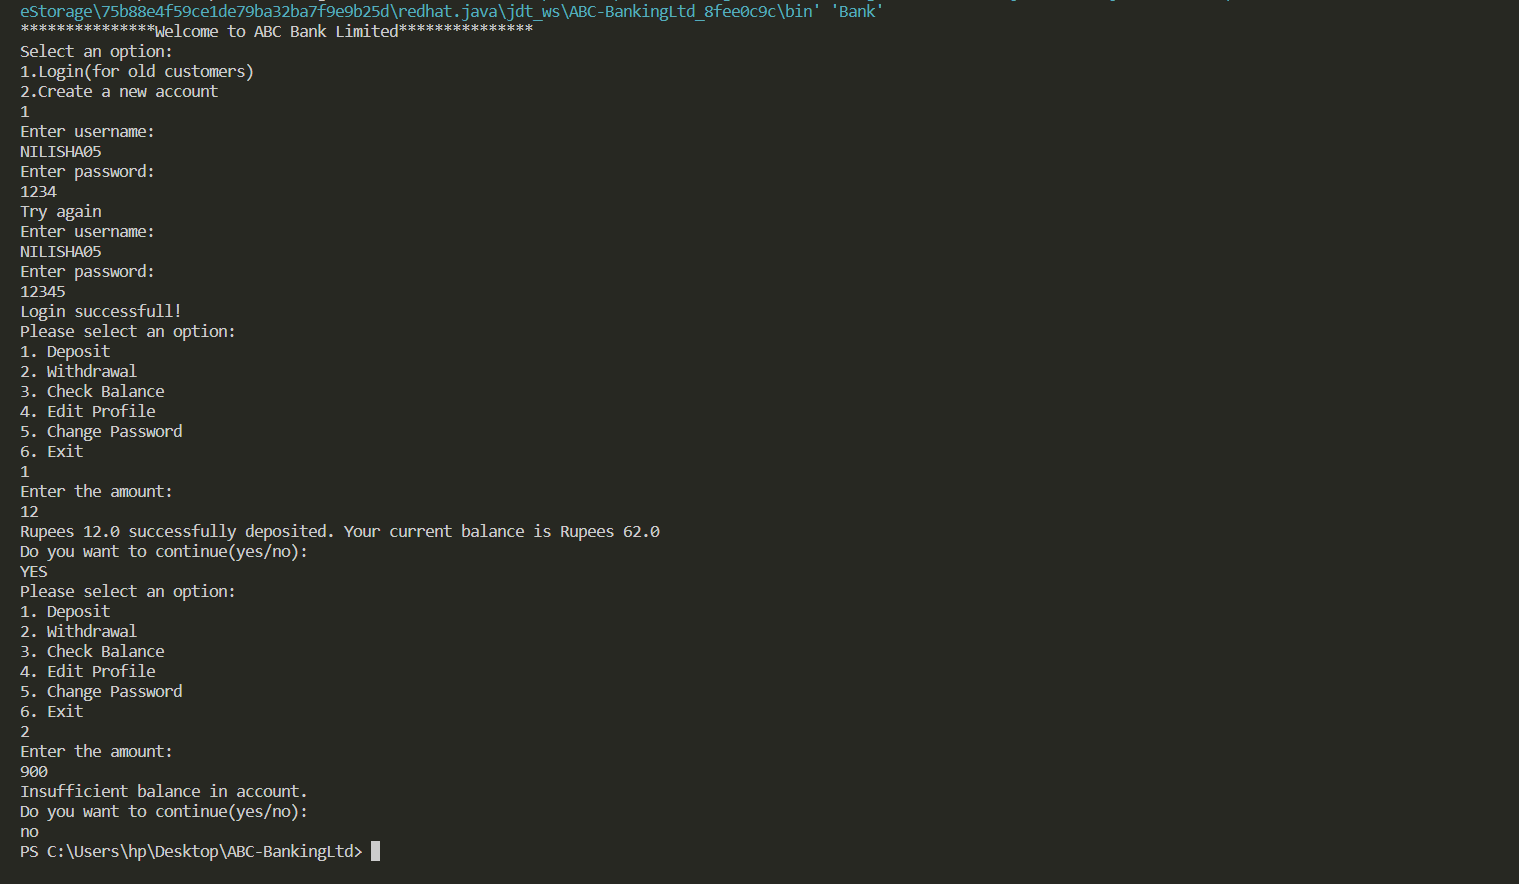
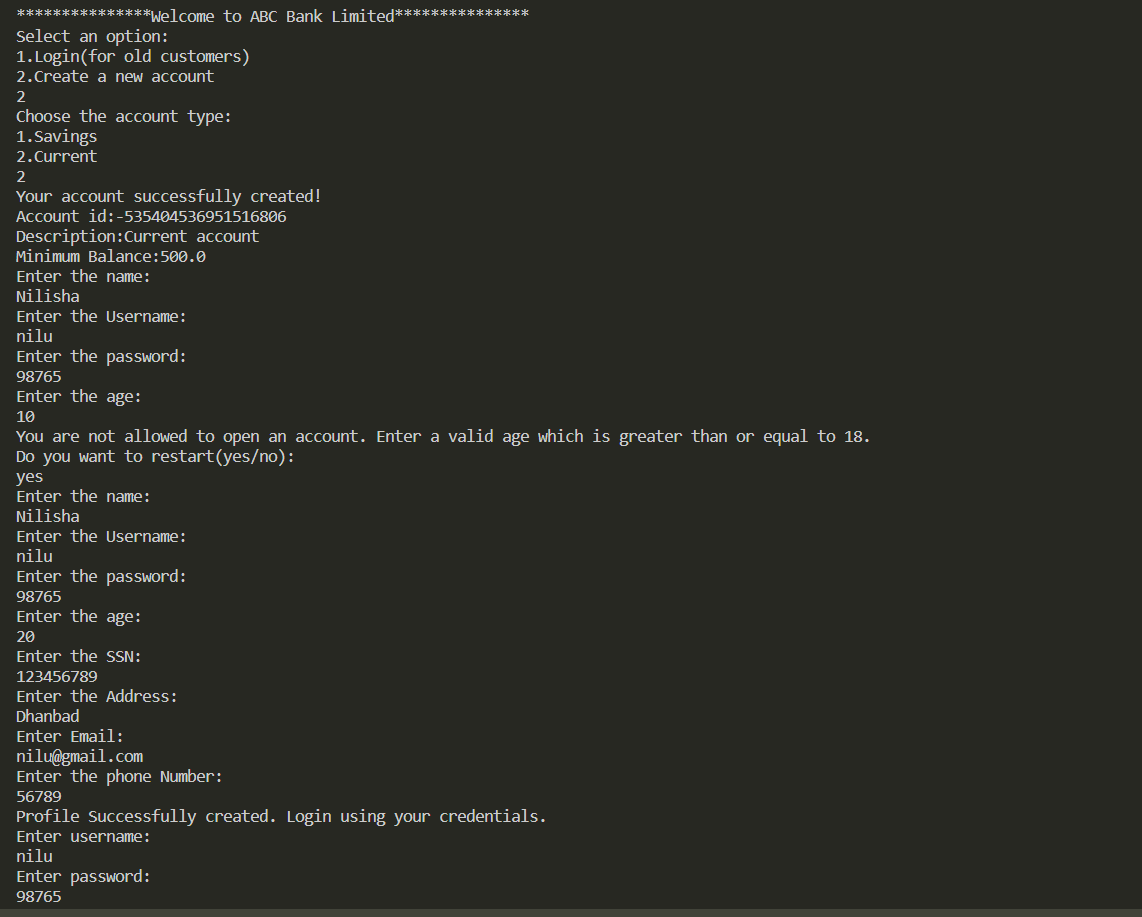
updated code

Changed region(s): [[0.0, 0.0, 1.0, 1.0]]

diff --git a/src/customer/Customer.java b/src/customer/Customer.java
@@ -2,7 +2,7 @@ package customer;
 
 import java.util.Scanner;
 
-public class Customer {
+public class Customer implements Validation {
     Scanner scan = new Scanner(System.in);
     String name;
     String username;
@@ -13,6 +13,9 @@ public class Customer {
     String email;
     long phone;
     float balance;
+
+    public Customer() {
+    }
 
     public Customer(String name, String username, String password, int age, String ssn, String address,
             String email, long phone, float balance) {
@@ -84,13 +87,15 @@ public class Customer {
 
     public void deposit(float amount) {
         this.balance += amount;
-        System.out.println("Rupees "+amount+" successfully deposited. Your current balance is Rupees " + this.balance);
+        System.out.println(
+                "Rupees " + amount + " successfully deposited. Your current balance is Rupees " + this.balance);
     }
 
     public void withdrawal(float amount) {
         if (amount <= this.balance) {
             this.balance -= amount;
-            System.out.println("Rupees "+amount+" successfully withdrawan. Your current balance is " + this.balance);
+            System.out
+                    .println("Rupees " + amount + " successfully withdrawan. Your current balance is " + this.balance);
         } else
             System.out.println("Insufficient balance in account.");
     }
@@ -118,6 +123,70 @@ public class Customer {
 
     public void changePassword(String password) {
         this.password = password;
-        System.out.println("Password updated. New password is "+this.password);
+        System.out.println("Password updated. New password is " + this.password);
     }
+
+    public void validateAge(int age) {
+        if (age < 18) {
+            System.out.println(
+                    "You are not allowed to open an account. Enter a valid age which is greater than or equal to 18.");
+            System.out.println("Do you want to restart(yes/no):");
+            String ch1 = scan.next();
+            if (ch1.toLowerCase().equals("yes")) {
+                openAccount();
+            } else {
+                System.out.println("Thank you for visiting!");
+                System.exit(0);
+            }
+
+        }
+    }
+
+    public void validateSSN(String ssn) {
+        if (ssn.length() < 9 || ssn.length() > 9) {
+            System.out.println("Invalid SSN number. Enter a SSN number of length 9");
+            System.out.println("Do you want to restart(yes/no):");
+            String ch2 = scan.next();
+            if (ch2.toLowerCase().equals("yes")) {
+                openAccount();
+            } else {
+                System.out.println("Thank you for visiting!");
+                System.exit(0);
+            }
+        }
+    }
+
+    public void openAccount() {
+        System.out.println("Enter the name: ");
+        String name = scan.next();
+
+        System.out.println("Enter the Username: ");
+        String username = scan.next();
+
+        System.out.println("Enter the password: ");
+        String password = scan.next();
+
+        System.out.println("Enter the age: ");
+        int age = scan.nextInt();
+        validateAge(age);
+
+        System.out.println("Enter the SSN: ");
+        String ssn = scan.next();
+        validateSSN(ssn);
+
+        System.out.println("Enter the Address: ");
+        String address = scan.next();
+
+        System.out.println("Enter Email: ");
+        String email = scan.next();
+
+        System.out.println("Enter the phone Number: ");
+        long phone = scan.nextLong();
+
+        Customer c2 = new Customer(name, username, password, age, ssn, address, email, phone, 0);
+
+        System.out.println("Profile Successfully created. Login using your credentials.");
+        c2.login();
+    }
+
 }

diff --git a/src/Bank.java b/src/Bank.java
@@ -1,5 +1,6 @@
-import java.util.Scanner;
+import java.util.*;
 
+import account.*;
 import customer.Customer;
 
 public class Bank {
@@ -15,33 +16,16 @@ public class Bank {
                 c1.login();
                 break;
             case 2:
-                System.out.println("Enter the name: ");
-                String name = scan.next();
+                System.out.println("Choose the account type:\n1.Savings\n2.Current");
+                int ch = scan.nextInt();
+                if (ch == 1) {
+                    new Saving(new Random().nextLong());
 
-                System.out.println("Enter the Username: ");
-                String username = scan.next();
+                } else if (ch == 2) {
+                    new Current(new Random().nextLong());
 
-                System.out.println("Enter the password: ");
-                String password = scan.next();
-
-                System.out.println("Enter the age: ");
-                int age = scan.nextInt();
-
-                System.out.println("Enter the SSN: ");
-                String ssn = scan.next();
-
-                System.out.println("Enter the Address: ");
-                String address = scan.next();
-
-                System.out.println("Enter Email: ");
-                String email = scan.next();
-
-                System.out.println("Enter the phone Number: ");
-                long phone = scan.nextLong();
-                Customer c2 = new Customer(name, username, password, age, ssn, address, email, phone, 0);
-
-                System.out.println("Profile Successfully created. Login using your credentials.");
-                c2.login();
+                } else
+                    System.out.println("Invalid input");
                 break;
 
             default:

diff --git a/src/account/Current.java b/src/account/Current.java
@@ -1,15 +1,22 @@
 package account;
 
+import customer.Customer;
+
 public class Current extends Account {
-    public Current() {
-        System.out.println("Current account created");
-        display();
-    }
 
     float minimumBalance = 500;
+    String description = "Current account";
+
+    public Current(long accountId) {
+        this.accountId = accountId;
+        display();
+        new Customer().openAccount();
+    }
 
     public void display() {
+        System.out.println("Your account successfully created!");
         System.out.println(
                 "Account id:" + accountId + "\nDescription:" + description + "\nMinimum Balance:" + minimumBalance);
     }
+
 }

diff --git a/src/account/Saving.java b/src/account/Saving.java
@@ -1,14 +1,19 @@
 package account;
 
+import customer.Customer;
+
 public class Saving extends Account {
-    public Saving() {
-        System.out.println("Savings account created");
+    float minimumBalance = 0;
+    String description = "Savings account";
+
+    public Saving(long accountId) {
+        this.accountId = accountId;
         display();
+        new Customer().openAccount();
     }
 
-    float minimumBalance = 0;
-
     public void display() {
+        System.out.println("Your account successfully created!");
         System.out.println(
                 "Account id:" + accountId + "\nDescription:" + description + "\nMinimum Balance:" + minimumBalance);
     }

diff --git a/src/account/Account.java b/src/account/Account.java
@@ -1,12 +1,9 @@
 package account;
 
-public class Account {
+abstract class Account  {
     long accountId;
     String description;
     float minimumBalance;
 
-    public void display() {
-        System.out.println(
-                "Account id:" + accountId + "\nDescription:" + description + "\nMinimum Balance:" + minimumBalance);
-    }
+    public abstract void display();
 }

diff --git a/src/customer/Validation.java b/src/customer/Validation.java
@@ -1,0 +1,8 @@
+package customer;
+
+public interface Validation {
+    void validateSSN(String ssn);
+
+    void validateAge(int age);
+
+}

diff --git a/readme.md b/readme.md
@@ -4,74 +4,21 @@ A banking application made using java.
   
 ### Application Screenshots
 
-- Creating a new user
-
-
-<img src="images/img2.png">
-
-- Log in as existing user
-
-
 <img src="images/img1.png">
+<img src="images/img2.png">
 
 ### Tasks Done
 
-A. Create an simple java application with two classes
-1. Customer ( this class contain information about customer).
-  
-  
-a. The attributes are as follows.
-- Name-String
-- Username-String
-- Password-String
-- Age-int
-- SSN-String
-- Address-String(just city name)
-- Email-String
-- Phone-long
-- Balance-float
+Modified the code in [Main branch](https://github.com/nilisha-jais/Banking-Application) to implement
 
-
-b. Methods.
-- login
-- deposit
-- withdrawal
-- checkBalance
-- editProfile
-- changePassword
-
-2. Bank( This will be the main class, which when executed shows following
-results )
-
-3. On the start of application login() method of Customer class should be
-called.
-4. After logging in, customer should select one of the option to perform the
-operation.
-5. On selection of each operation, respecting methods in customer class
-should be called
-6. At the end of each operation the customer should be prompted , do you
-want to continue?
-7. If the reply is “YES” then it should display the menu again.
-
-8. If the answer is no , then it should exit out and display the login page
-
-B. Add another class Account in the application with the following attributes
-and methods
-a. Attributes
-• accountId
-• description
-• minimumBalance
-b. methods
-• display()
-
-C. Create two subclasses of Account class
-a. Current
-• Set minimumBalance=$0
-• Override display method to show details of all the attributes
-in the account
-
-b. Saving
-• Set minimumBalance=$500
-• Override display method to show details of all the attributes
-in the account
-
+A. Change the Account class to an abstract class, with display as abstract 
+method.
+B. Add an interface named Validation with two methods.
+- validateSSN()
+- validateAge()
+C. Implement Validation methods in customer class.
+- validateSSN()
+This should validate if the the SSN number has 9 digits
+- validateAge()
+This will validate if the the age of customer is greater than
+18 year to open an account.
